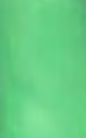
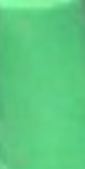
add comments and update training images

Changed region(s): [[0.2824, 0.7536, 0.6118, 1.0], [0.0, 0.0, 0.8471, 0.058], [0.0, 0.9275, 0.0941, 1.0]]

diff --git a/colorTracking/colorTracking.cpp b/colorTracking/colorTracking.cpp
@@ -10,6 +10,13 @@
 using namespace cv;
 using namespace std;
 
+/*
+* Function: colorSpaceMapping
+* Usage:  colorSpaceMapping(iamge, r, g);
+* ----------------------------------------
+* Converts an image to a smaller colorspace and 
+* returns the color space data
+*/
 void colorSpaceMapping(Mat& image, Mat& r, Mat& g)
 {
 	vector<Mat> rgb(3);
@@ -35,7 +42,13 @@ void colorSpaceMapping(Mat& image, Mat& r, Mat& g)
 
 	return;
 }
-
+/*
+* Function: getRanges
+* Usage:  getRanges(iamge, r_range, g_range);
+* ----------------------------------------
+* Converts an image to a smaller colorspace and returns the 
+* range the image is in.
+*/
 void getRanges(Mat& image, double r_range[2], double g_range[2])
 {
 	Mat rRed, gRed;
@@ -52,7 +65,13 @@ void getRanges(Mat& image, double r_range[2], double g_range[2])
 	g_range[0] = gmin + adjustment2;
 	g_range[1] = gmax - adjustment2;
 }
-
+/*
+* Function: detectColor
+* Usage:  detectColor(iamge, mask, ref);
+* ----------------------------------------
+* Converts the image into a smaller colorspace and creates
+* a mask using <code>ref</code>
+*/
 void detectColor(Mat& image, Mat& mask, Mat& ref)
 {
 	//Mapping to new color space for ranges to detect on
@@ -66,7 +85,12 @@ void detectColor(Mat& image, Mat& mask, Mat& ref)
 	mask = ((g>g_range[0]) & (g<g_range[1]) &(r>r_range[0]) & (r<r_range[1]));
 	return;
 }
-
+/*
+* Function: mergeMask
+* Usage:  mergeMask(mask);
+* ----------------------------------------
+* Uses mathematical morphology to merge detections
+*/
 void mergeMask(Mat& mask)
 {
 	int type = MORPH_ELLIPSE;
@@ -85,7 +109,12 @@ void mergeMask(Mat& mask)
 
 	//morphologyEx(mask, mask, MORPH_DILATE, element2, Point(-1, -1), 1);
 }
-
+/*
+* Function: getLargestBox
+* Usage:  biggestBox = getLargestBox(boxes);
+* ----------------------------------------
+* Returns the biggest box in an array of Rects
+*/
 Rect getLargestBox(vector<Rect> boxes)
 {
 	RNG rng(12345);
@@ -100,7 +129,12 @@ Rect getLargestBox(vector<Rect> boxes)
 	//cout << "area " << biggestBox.area() << endl;
 	return biggestBox;
 }
-
+/*
+* Function: processVideo
+* Usage:  processVideo(videoFilename);
+* ----------------------------------------
+* Processes the video <code>videoFilename</code>
+*/
 void processVideo(char* videoFilename)
 {
 	//Read and display
@@ -189,7 +223,7 @@ void processVideo(char* videoFilename)
 		}
 		//cout << lastBallLoc << endl;
 
-		//NOTE: Jumps from Red to Green for some reason: because if a false detection on the ball!
+		//NOTE: Jumps from Red to Green for some reason: because of a false detection on the ball!
 		//Check if ball is in a cup
 		RNG rng(12345);
 		Scalar color = Scalar(rng.uniform(0, 255), rng.uniform(0, 255), rng.uniform(0, 255));
@@ -255,7 +289,7 @@ int main(int argc, char** argv)
 {
 
 	//Detect red cup
-	processVideo("3-cups/3-1.avi");
+	processVideo("3-cups/3-3.avi");
 
 
 	waitKey(0); // Wait for a keystroke in the window
